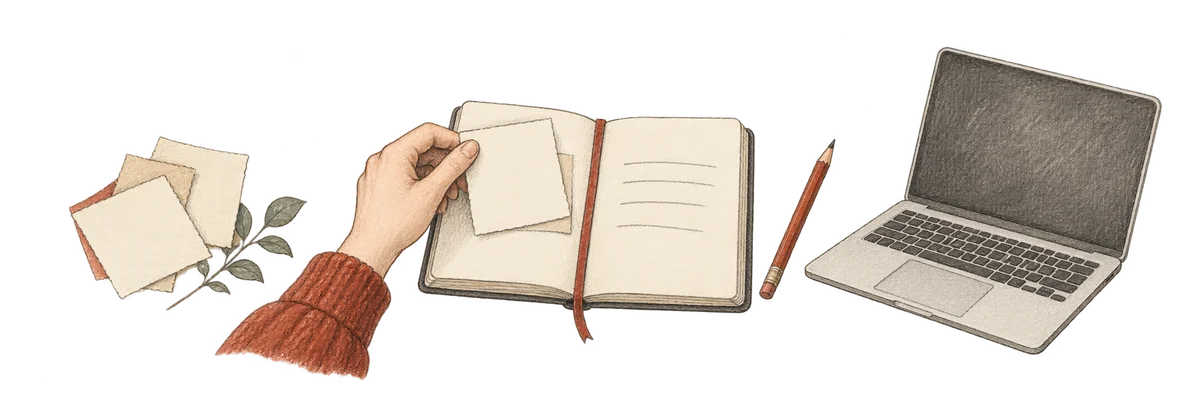
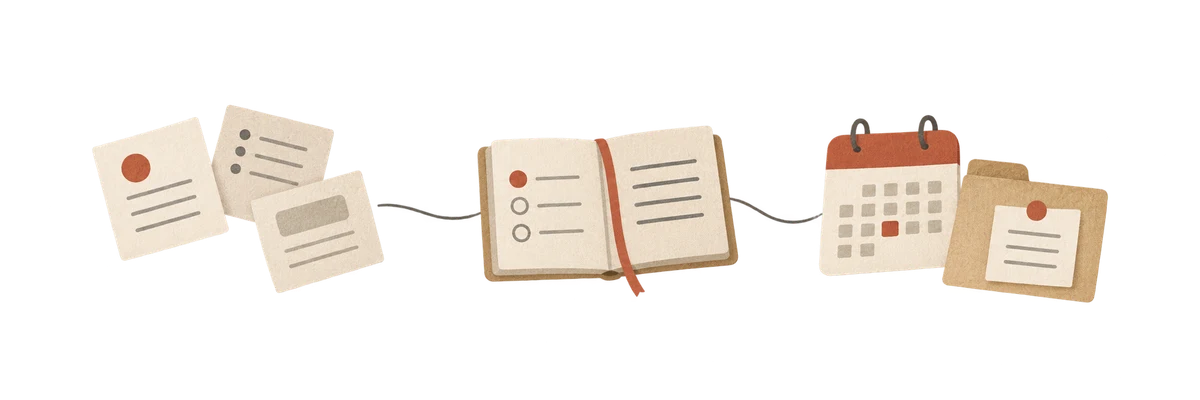
feat: apply selected recognisable work imagery

diff --git a/design/imagery-review.html b/design/imagery-review.html
@@ -12,7 +12,7 @@
 </head>
 <body>
 <header>
-<div class="topline"><h1>ExFu · Three imagery directions</h1><p class="review-note">Visual exploration · no final direction chosen</p></div>
+<div class="topline"><h1>ExFu · Three imagery directions</h1><p class="review-note">Selected direction: C · Recognisable work</p></div>
 <div class="switcher" role="group" aria-label="Image direction">
 <button type="button" data-option="0" aria-pressed="true">A · Abstract editorial</button>
 <button type="button" data-option="1" aria-pressed="false">B · Landscape-like</button>

diff --git a/design/decision-history.md b/design/decision-history.md
@@ -121,3 +121,7 @@ The user likes the structure of the shallow visual breaks but says the content, 
 The user asked to generate all three proposed alternatives and flip between them visually. Generated hand-free transparent panoramas for A: abstract editorial fragments and threads; B: landscape with a path, bridge and clearing; C: recognisable documents becoming a usable briefing. No direction has been selected or approved for the website.
 
 `design/imagery-review.html` is a standalone comparison with identical placement and surrounding text, A/B/C buttons, previous/next controls, arrow-key navigation and paper/putty/dark background selection. Assets and exact prompts are in `design/imagery-options/`. Serve with `python3 -m http.server 4393 --bind 127.0.0.1 --directory design`, then open `http://127.0.0.1:4393/imagery-review.html`. The review server was left running for the user. Browser inspection verified switching A/B/C, next, dark background compositing and return to paper. The website's current provisional illustrations remain separate from this exploration. The requested About sketch still awaits its file.
+
+## Recognisable work selected, 2026-09-09
+
+The user selected option C, recognisable work. Applied the exact chosen illustration to Fractional support and generated two matching hand-free transparent panoramas for personal routines and the full-width project break. Existing shallow layout retained. Updated alt text and fractional caption to describe the new content. Responsive WebP assets remain in public/images/narrative; exact derivative prompts are in design/recognisable-work-prompts.json. Alpha metadata and fully transparent pixels checked for all three sources. Production build and whitespace check passed. About sketch file still pending.

diff --git a/design/secondary-page-readability.md b/design/secondary-page-readability.md
@@ -41,3 +41,7 @@ The user subsequently liked the visual-break structure but questioned the conten
 The user asked to generate all three proposed alternatives and flip between them visually. Generated hand-free transparent panoramas for A: abstract editorial fragments and threads; B: landscape with a path, bridge and clearing; C: recognisable documents becoming a usable briefing. No direction has been selected or approved for the website.
 
 `design/imagery-review.html` is a standalone comparison with identical placement and surrounding text, A/B/C buttons, previous/next controls, arrow-key navigation and paper/putty/dark background selection. Assets and exact prompts are in `design/imagery-options/`. Serve with `python3 -m http.server 4393 --bind 127.0.0.1 --directory design`, then open `http://127.0.0.1:4393/imagery-review.html`. The review server was left running for the user. Browser inspection verified switching A/B/C, next, dark background compositing and return to paper. The website's current provisional illustrations remain separate from this exploration. The requested About sketch still awaits its file.
+
+## Recognisable work selected, 2026-09-09
+
+The user selected option C, recognisable work. Applied the exact chosen illustration to Fractional support and generated two matching hand-free transparent panoramas for personal routines and the full-width project break. Existing shallow layout retained. Updated alt text and fractional caption to describe the new content. Responsive WebP assets remain in public/images/narrative; exact derivative prompts are in design/recognisable-work-prompts.json. Alpha metadata and fully transparent pixels checked for all three sources. Production build and whitespace check passed. About sketch file still pending.

diff --git a/.apv/summary.md b/.apv/summary.md
@@ -1,6 +1,6 @@
-# Project state — generated 2026-09-09T18:09:49Z
+# Project state — generated 2026-09-09T18:13:23Z
 
-**Total events:** 117  ·  **Draft:** 2  ·  **Live:** 5  ·  **Dormant:** 0  ·  **Closed:** 5  ·  **Orphaned:** 0
+**Total events:** 121  ·  **Draft:** 2  ·  **Live:** 5  ·  **Dormant:** 0  ·  **Closed:** 5  ·  **Orphaned:** 0
 
 ## Live work
 
@@ -11,7 +11,7 @@
 
 - **(T2 itself)**
   - `T2-content-and-enquiries` (4 events): relationship.spawns → entity.accepted → entity.progressed
-  - `T2-implementation` (19 events): verification.tested → entity.progressed → verification.tested
+  - `T2-implementation` (21 events): verification.tested → entity.progressed → verification.tested
   - `T2-visual-language` (4 events): relationship.spawns → entity.accepted → entity.progressed
 
 - **(milestone)**
@@ -25,8 +25,8 @@
 ## Awaiting operator
 
 **Acceptance ceremonies pending** (draft plans — the draft gate blocks implementation against them):
-- `M1-reviewable-design` (authored 2026-09-08, 14 commit(s) ago)
-- `T3-review-home-and-service` (authored 2026-09-08, 14 commit(s) ago)
+- `M1-reviewable-design` (authored 2026-09-08, 15 commit(s) ago)
+- `T3-review-home-and-service` (authored 2026-09-08, 15 commit(s) ago)
 
 **Closure ceremonies pending** (all scheduled T3s closed; milestone still live):
 - `M2-publish-ready`
@@ -66,4 +66,4 @@ _No flapping closures._
 - **M2-publish-ready**: 5/5 T3 complete (100%); 0 live
 
 ---
-_12 entities · 23 relationships · 15 decisions._
+_12 entities · 23 relationships · 16 decisions._
